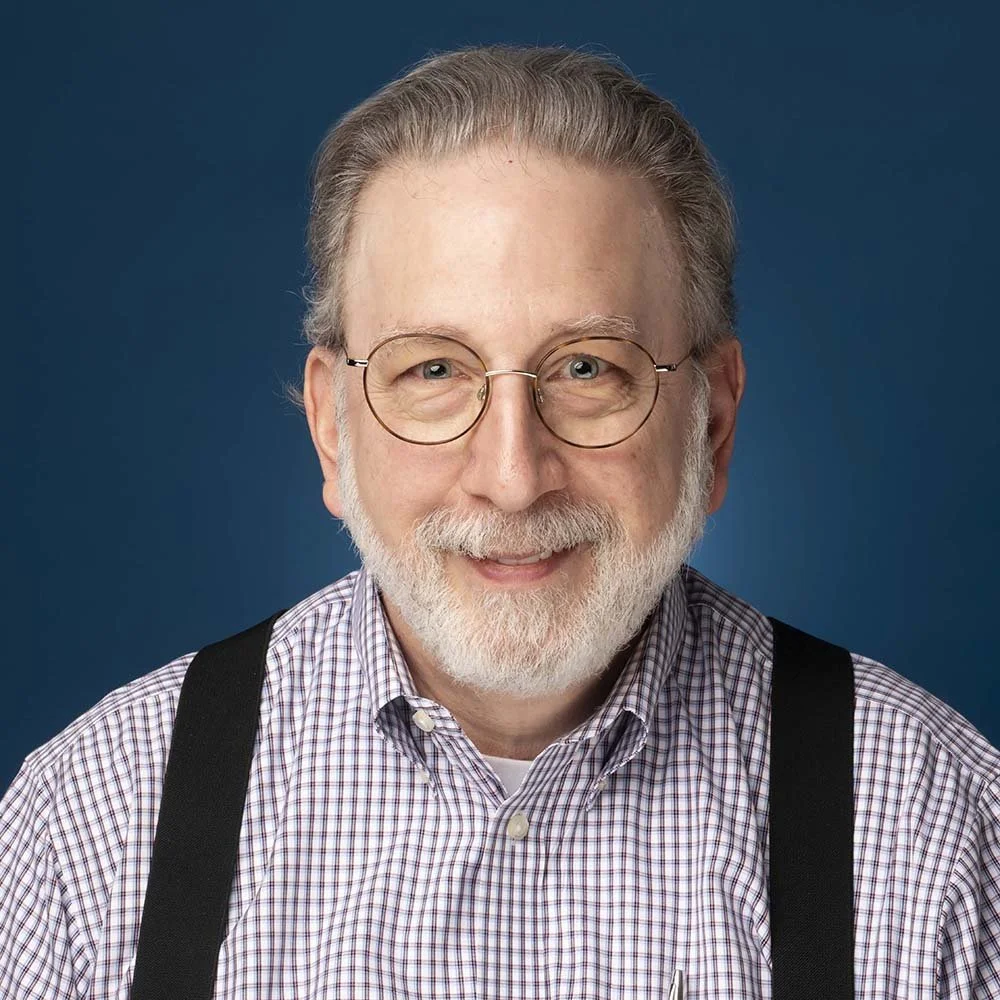
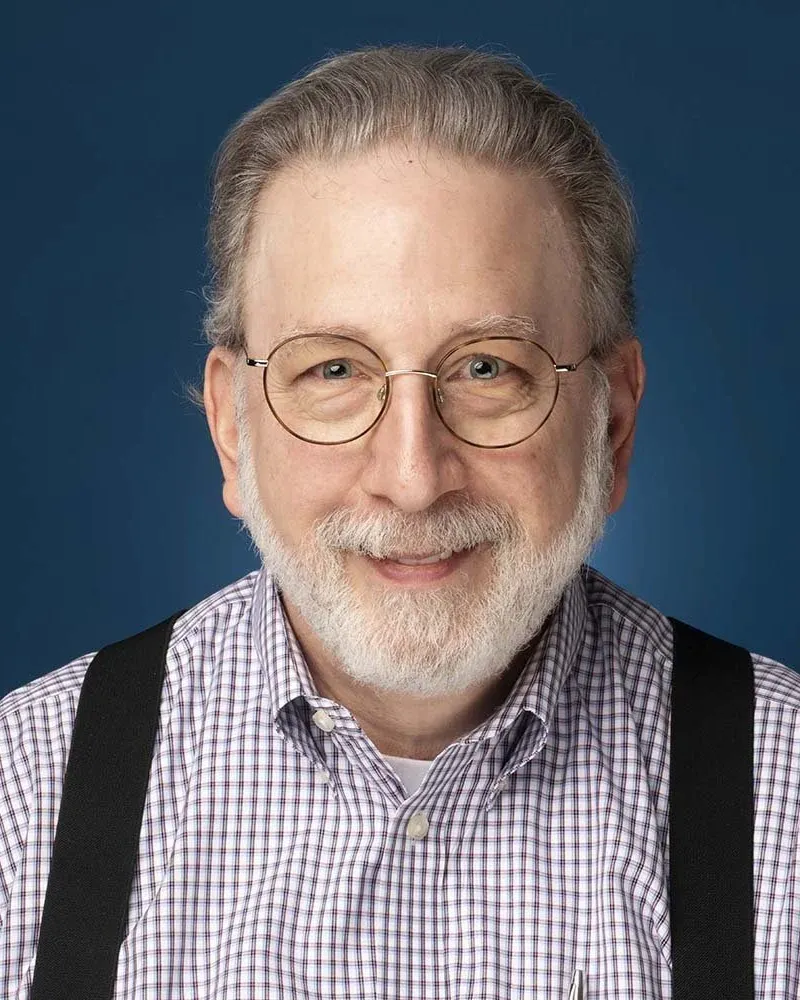
Update events 2026

diff --git a/public_html/index.html b/public_html/index.html
@@ -355,7 +355,7 @@
                                     Join 100–200 practitioners at events built for participation. New speakers, open conversations, and formats designed so you learn with the room — not just sit in it.
                                 </p>
                             </div>
-                            <div class="grid grid-cols-1 sm:grid-cols-2 md:grid-cols-2 lg:grid-cols-5 gap-6 event-logos-row justify-items-center">
+                            <div class="grid grid-cols-1 sm:grid-cols-2 md:grid-cols-3 lg:grid-cols-4 gap-6 event-logos-row justify-items-center">
                                 <figure class="flex flex-col items-center gap-3">
                                      <a href="https://liberatingstructuresgathering.com/" target="_blank" rel="noopener" class="event-card card-standard animate-slide-in-up hover:scale-105 transition-transform duration-300"
                                          style="animation-delay: 0.1s;">
@@ -365,7 +365,11 @@
                                                  src="img/LS_gathering_logo.png" loading="lazy" />
                                          </div>
                                      </a>
-                                     <figcaption class="text-center text-xs font-semibold text-secondary opacity-70 tracking-wide uppercase">📍 Eindhoven, NL</figcaption>
+                                     <figcaption class="text-center text-xs font-semibold text-secondary tracking-wide leading-relaxed">
+                                         <span class="block text-sm normal-case">Liberating Structures Global Gathering</span>
+                                         <span class="block opacity-70 uppercase">📅 11–12 June</span>
+                                         <span class="block opacity-70 uppercase">📍 Eindhoven, NL</span>
+                                     </figcaption>
                                  </figure>
                                  <figure class="flex flex-col items-center gap-3">
                                      <a href="https://aisummitbrussels.com/" target="_blank" rel="noopener" class="event-card card-standard animate-slide-in-up hover:scale-105 transition-transform duration-300"
@@ -376,37 +380,101 @@
                                                  src="img/ai-summit-brussels-logo.png" loading="lazy" />
                                          </div>
                                      </a>
-                                     <figcaption class="text-center text-xs font-semibold text-secondary opacity-70 tracking-wide uppercase">📅 May 26 · Brussels</figcaption>
+                                     <figcaption class="text-center text-xs font-semibold text-secondary tracking-wide leading-relaxed">
+                                         <span class="block text-sm normal-case">AI Summit Brussels</span>
+                                         <span class="block opacity-70 uppercase">📅 26 May</span>
+                                         <span class="block opacity-70 uppercase">📍 Brussels, BE</span>
+                                     </figcaption>
                                  </figure>
                                  <figure class="flex flex-col items-center gap-3">
-                                    <a href="https://www.rsgbrussels26.com/" target="_blank" rel="noopener" class="event-card card-standard animate-slide-in-up hover:scale-105 transition-transform duration-300"
+                                    <a href="events/certified-org-topologies-consultant.html" class="event-card card-standard animate-slide-in-up hover:scale-105 transition-transform duration-300"
                                         style="animation-delay: 0.3s;">
                                         <div class="event-card-content">
-                                            <img alt="Regional Scrum Gathering Brussels 2026 event logo" class="w-full h-full object-cover"
-                                                src="img/2026-RSG_Logo_Brussels.png" loading="lazy" />
+                                            <img alt="Certified Org Topologies Consultant Bootcamp Brussels 2026" class="w-full h-full object-contain"
+                                                src="img/org-topologies-logo.webp" loading="lazy" />
                                         </div>
                                     </a>
-                                    <figcaption class="text-center text-xs font-semibold text-secondary opacity-70 tracking-wide uppercase">📍 Brussels, BE</figcaption>
+                                    <figcaption class="text-center text-xs font-semibold text-secondary tracking-wide leading-relaxed">
+                                        <span class="block text-sm normal-case">Certified Org Topologies™ Consultant</span>
+                                        <span class="block text-[11px] opacity-60 normal-case">with Alexey Krivitsky</span>
+                                        <span class="block opacity-70 uppercase">📅 6–7 October</span>
+                                        <span class="block opacity-70 uppercase">📍 Brussels, BE</span>
+                                    </figcaption>
                                 </figure>
                                 <figure class="flex flex-col items-center gap-3">
-                                    <a href="https://xpdaysbenelux.org/" target="_blank" rel="noopener" class="event-card card-standard animate-slide-in-up hover:scale-105 transition-transform duration-300"
+                                    <a href="events/outcome-based-product-roadmaps.html" class="event-card card-standard animate-slide-in-up hover:scale-105 transition-transform duration-300"
                                         style="animation-delay: 0.4s;">
                                         <div class="event-card-content">
-                                            <img alt="XP Days Benelux event logo" class="w-full h-full object-cover"
-                                                src="img/XP-Days-Benelux-logo.webp" loading="lazy" />
+                                            <img alt="Outcome-Based Product Roadmaps workshop with Roman Pichler Brussels 2026" class="w-full h-full object-cover rounded-full"
+                                                src="img/Roman-Pichler.webp" loading="lazy" />
                                         </div>
                                     </a>
-                                    <figcaption class="text-center text-xs font-semibold text-secondary opacity-70 tracking-wide uppercase">📍 Benelux</figcaption>
+                                    <figcaption class="text-center text-xs font-semibold text-secondary tracking-wide leading-relaxed">
+                                        <span class="block text-sm normal-case">Outcome-Based Product Roadmaps</span>
+                                        <span class="block text-[11px] opacity-60 normal-case">with Roman Pichler</span>
+                                        <span class="block opacity-70 uppercase">📅 7 October</span>
+                                        <span class="block opacity-70 uppercase">📍 Brussels, BE</span>
+                                    </figcaption>
+                                </figure>
+                                <figure class="flex flex-col items-center gap-3">
+                                    <a href="events/ebac-workshop.html" class="event-card card-standard animate-slide-in-up hover:scale-105 transition-transform duration-300"
+                                        style="animation-delay: 0.5s;">
+                                        <div class="event-card-content flex">
+                                            <img alt="Bob Galen – EBAC Workshop" class="w-1/2 h-full object-cover"
+                                                src="img/Bob-Galen.webp" loading="lazy" />
+                                            <img alt="Peter Fischbach – EBAC Workshop" class="w-1/2 h-full object-cover"
+                                                src="img/Peter-Fischbach.webp" loading="lazy" />
+                                        </div>
+                                    </a>
+                                    <figcaption class="text-center text-xs font-semibold text-secondary tracking-wide leading-relaxed">
+                                        <span class="block text-sm normal-case">Badass Agile Coaching</span>
+                                        <span class="block text-[11px] opacity-60 normal-case">with Bob Galen &amp; Peter Fischbach</span>
+                                        <span class="block opacity-70 uppercase">📅 7 October</span>
+                                        <span class="block opacity-70 uppercase">📍 Brussels, BE</span>
+                                    </figcaption>
                                 </figure>
                                 <figure class="flex flex-col items-center gap-3">
                                     <a href="events/reimagining-agility.html" class="event-card card-standard animate-slide-in-up hover:scale-105 transition-transform duration-300"
-                                        style="animation-delay: 0.5s;">
+                                        style="animation-delay: 0.6s;">
                                         <div class="event-card-content">
                                             <img alt="Reimagining Agility event logo" class="w-full h-full object-contain event-logo-dark-bg"
                                                 src="img/reimagining-agility-logo.png" loading="lazy" />
                                         </div>
                                     </a>
-                                    <figcaption class="text-center text-xs font-semibold text-secondary opacity-70 tracking-wide uppercase">📅 Oct 7 · Brussels</figcaption>
+                                    <figcaption class="text-center text-xs font-semibold text-secondary tracking-wide leading-relaxed">
+                                        <span class="block text-sm normal-case">Reimagining Agility</span>
+                                        <span class="block text-[11px] opacity-60 normal-case">with Agile Alliance</span>
+                                        <span class="block opacity-70 uppercase">📅 7 October</span>
+                                        <span class="block opacity-70 uppercase">📍 Brussels, BE</span>
+                                    </figcaption>
+                                </figure>
+                                <figure class="flex flex-col items-center gap-3">
+                                    <a href="https://www.rsgbrussels26.com/" target="_blank" rel="noopener" class="event-card card-standard animate-slide-in-up hover:scale-105 transition-transform duration-300"
+                                        style="animation-delay: 0.7s;">
+                                        <div class="event-card-content">
+                                            <img alt="Regional Scrum Gathering Brussels 2026 event logo" class="w-full h-full object-cover"
+                                                src="img/rsgbrussels26_logo.png" loading="lazy" />
+                                        </div>
+                                    </a>
+                                    <figcaption class="text-center text-xs font-semibold text-secondary tracking-wide leading-relaxed">
+                                        <span class="block text-sm normal-case">Regional Scrum Gathering®</span>
+                                        <span class="block opacity-70 uppercase">📅 8–9 October</span>
+                                        <span class="block opacity-70 uppercase">📍 Brussels, BE</span>
+                                    </figcaption>
+                                </figure>
+                                <figure class="flex flex-col items-center gap-3">
+                                    <a href="https://xpdaysbenelux.org/" target="_blank" rel="noopener" class="event-card card-standard animate-slide-in-up hover:scale-105 transition-transform duration-300"
+                                        style="animation-delay: 0.8s;">
+                                        <div class="event-card-content">
+                                            <img alt="XP Days Benelux event logo" class="w-full h-full object-cover"
+                                                src="img/XP-Days-Benelux-logo.webp" loading="lazy" />
+                                        </div>
+                                    </a>
+                                    <figcaption class="text-center text-xs font-semibold text-secondary tracking-wide leading-relaxed">
+                                        <span class="block text-sm normal-case">XP Days Benelux</span>
+                                        <span class="block opacity-70 uppercase">📅 26–27 November</span>
+                                        <span class="block opacity-70 uppercase">📍 Eindhoven, NL</span>
+                                    </figcaption>
                                 </figure>
                             </div>
                         </section>
